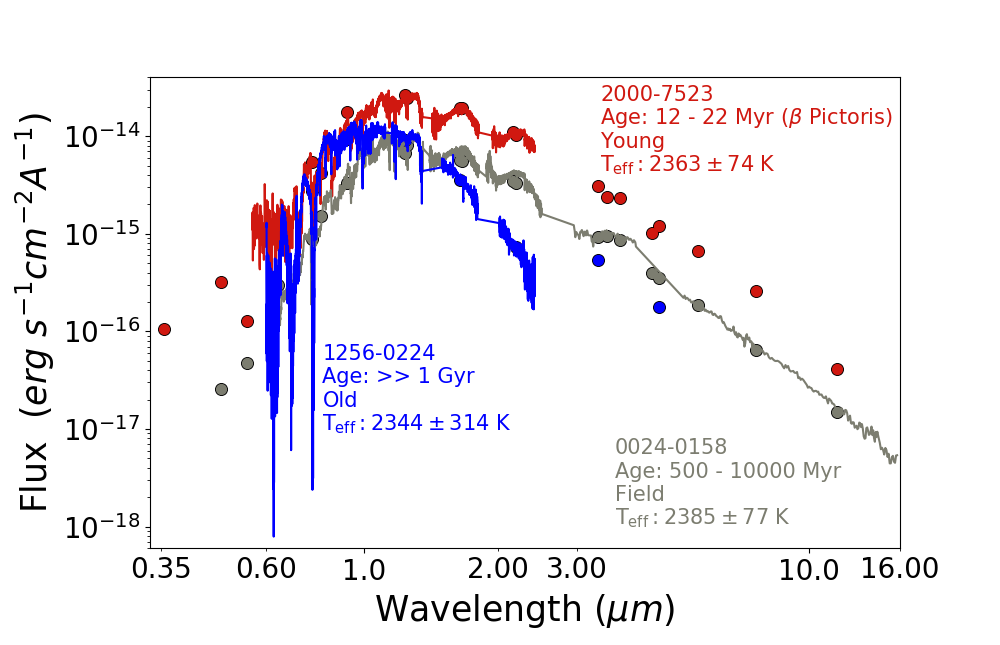
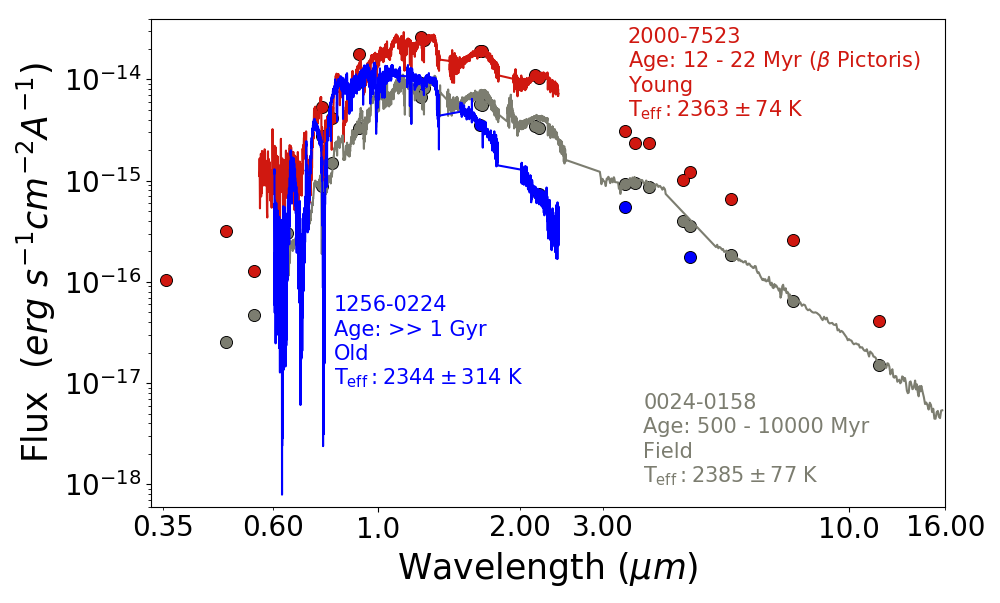
Added tight_layout to remove excess whitespace.

diff --git a/regimes.py b/regimes.py
@@ -33,6 +33,7 @@ ax1 = fig.add_subplot(111)
 fig.set_size_inches(10, 6.45)
 plt.gcf().subplots_adjust(bottom=0.15, left=0.15)  # This makes sure that the labels aren't cut off
 
+
 # ----- Plot Spectra -----------
 ax1.loglog(opt['w'], opt['f'], c='#0179FF')
 ax1.loglog(overlap['w'], overlap['f'], c='#009B45', lw=5, alpha=0.5)
@@ -75,6 +76,7 @@ ax1.text(0.35, 0.93, '2MASS $J$', transform=ax1.transAxes, color='#dd3497', font
 ax1.text(0.03, 0.83, 'SDSS $i$', transform=ax1.transAxes, color='#f768a1', fontsize=15)
 ax1.text(0.12, 0.94, 'SDSS $z$', transform=ax1.transAxes, color='#f768a1', fontsize=15)
 
+# plt.tight_layout() use to minimize whitespace on edges. May be best for figures in the paper
 plt.savefig('Plots/regimes.png')
 
 # -------- Add the bandpasses at the bottom of the plot ---------

diff --git a/comparison_Teff.py b/comparison_Teff.py
@@ -79,4 +79,5 @@ ax1.text(0.6, 0.9, r'Age: 12 - 22 Myr ($\beta$ Pictoris)', transform=ax1.transAx
 ax1.text(0.6, 0.85, 'Young', transform=ax1.transAxes, color='#D01810', fontsize=15)
 ax1.text(0.6, 0.8, 'T$_\mathrm{eff}:2363\pm 74$ K', transform=ax1.transAxes, color='#D01810', fontsize=15)
 
+plt.tight_layout()  # use to reduce whitespace in paper
 plt.savefig('Plots/comparison_Teff.png')
